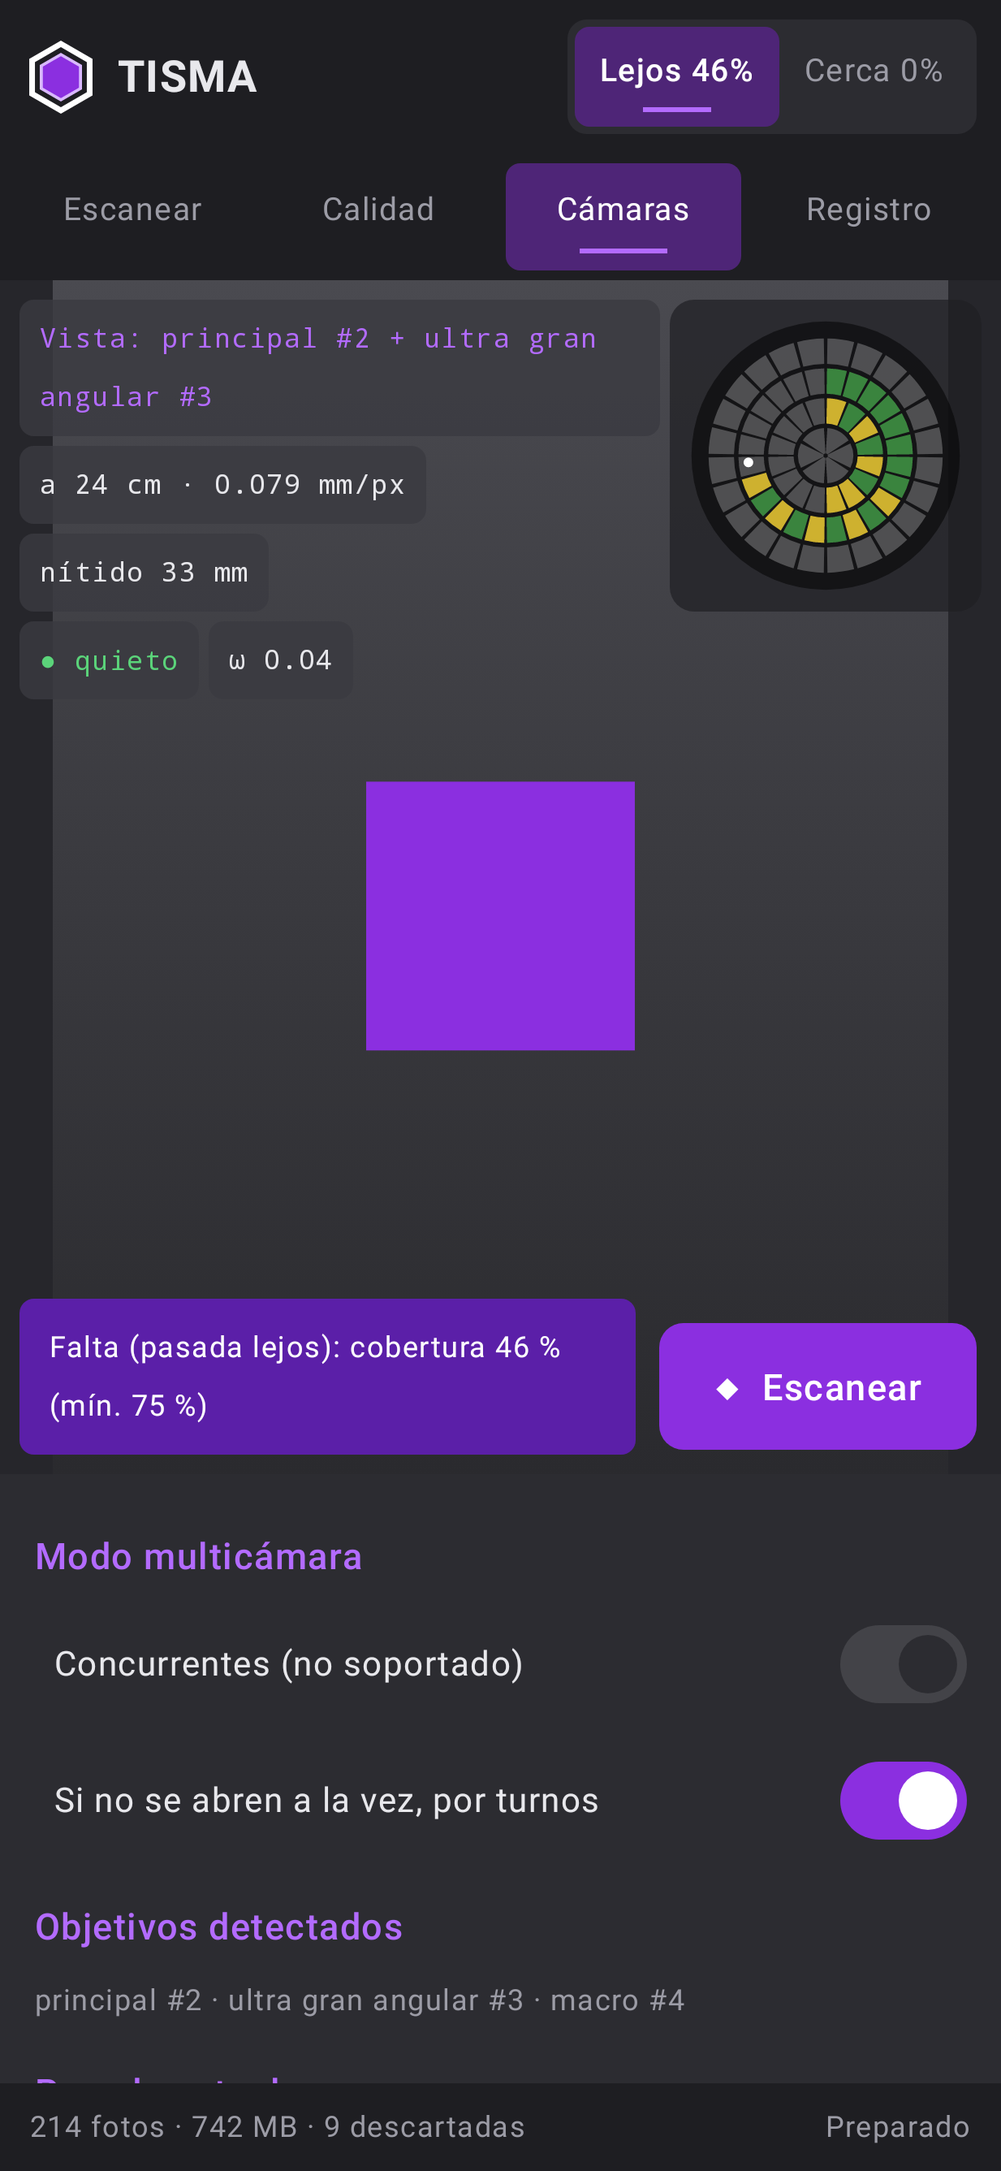
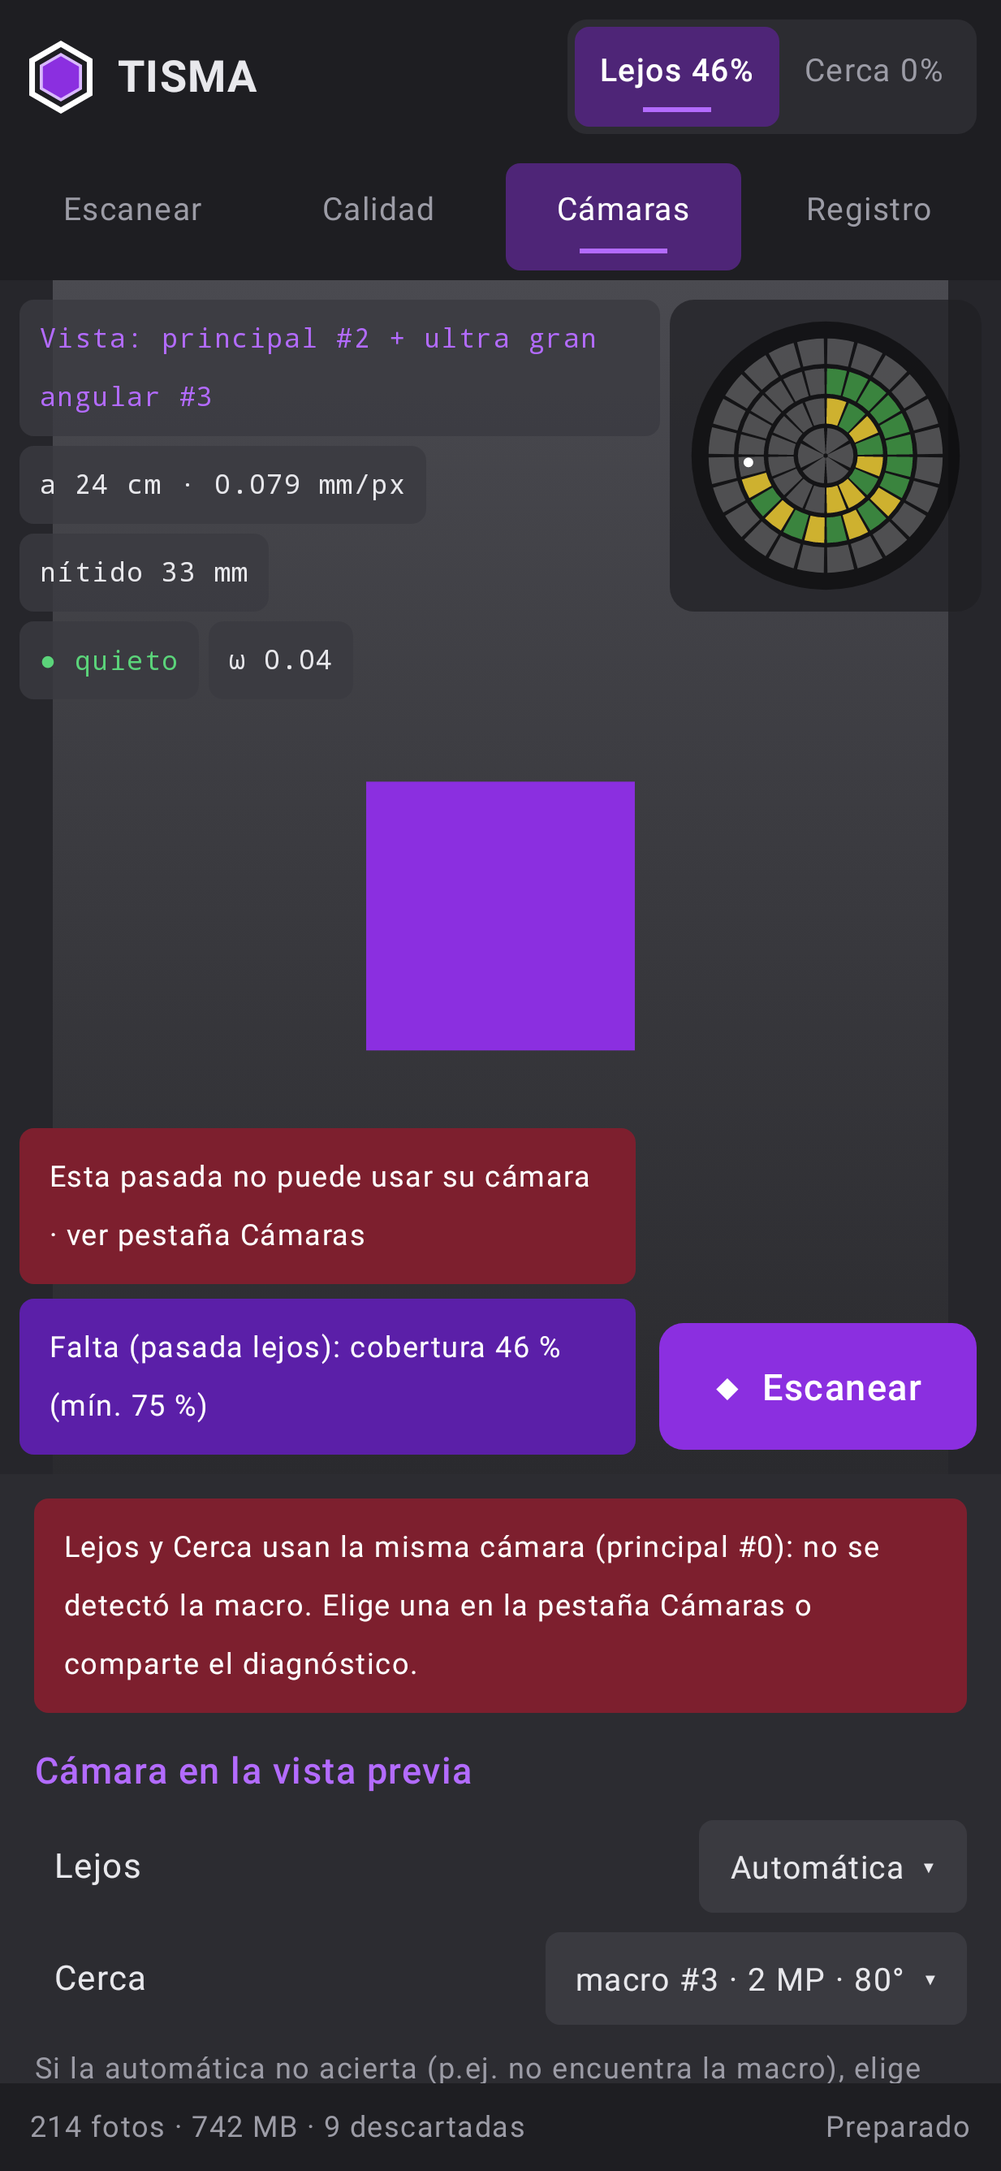
Preview: find hidden cameras, manual per-pass picker, and diagnostics
- Probes camera IDs 0-15: Honor/Huawei and others only list 0 and 1 but let
  the ultrawide/macro open if requested by number
- Roles detected from the real sensor resolution (pixel array), not the
  JPEG resolution, which can be empty for hidden lenses
- Checks which camera is actually in the preview and warns if the phone
  rejects the macro stream or if both passes end up on the same camera
- Falls back to the main camera if a found camera refuses to open
- Cameras tab: manual preview-camera choice per pass and a 'Compartir
  diagnóstico' button that sends everything the phone reports about its cameras

Claude-Session: https://claude.ai/code/session_01QadJfKzbw9ynwc1fqLJ3m8

diff --git a/app/src/main/java/com/tisma/scanner/ui/ScanViewModel.kt b/app/src/main/java/com/tisma/scanner/ui/ScanViewModel.kt
@@ -57,6 +57,12 @@ data class UiState(
     /** Papel detectado de cada objetivo y cómo se combinan en la pasada actual. */
     val rolesText: String = "",
     val rigText: String = "",
+    /** Aviso si la pasada no puede usar la cámara que le toca (p.ej. el móvil oculta la macro). */
+    val rigWarning: String = "",
+    /** Cámaras traseras elegibles a mano para la vista previa de cada pasada: id -> etiqueta. */
+    val cameraChoices: List<Pair<String, String>> = emptyList(),
+    /** Elección manual de la vista previa por pasada (null = automática). */
+    val previewChoice: Map<ScanPass, String?> = emptyMap(),
     val gpsText: String = "GPS: sin fix",
     val posStdM: Double = 0.0,
     val scanning: Boolean = false,
@@ -166,8 +172,9 @@ class ScanViewModel(app: Application) : AndroidViewModel(app), MultiCameraContro
         lenses = inventory.values.map { c ->
             Lens(
                 id = c.id, back = c.facing == CameraMetadata.LENS_FACING_BACK,
-                logical = c.isLogicalMultiCamera, physicalIds = c.physicalIds, isPublic = c.id in public,
-                pixels = c.jpegSizes.firstOrNull()?.let { it.width.toLong() * it.height } ?: 0L,
+                // Las encontradas probando su número también se intentan abrir directamente.
+                logical = c.isLogicalMultiCamera, physicalIds = c.physicalIds, isPublic = c.id in public || c.probed,
+                pixels = c.sensorPixels,
                 hfovDeg = c.hfovDeg,
             )
         }
@@ -178,8 +185,13 @@ class ScanViewModel(app: Application) : AndroidViewModel(app), MultiCameraContro
                 cameras = inventory.values.map { c -> c.label },
                 concurrentSupported = concurrentSets.any { s -> s.size > 1 },
                 rolesText = roles.describe(),
+                cameraChoices = inventory.values
+                    .filter { c -> c.facing == CameraMetadata.LENS_FACING_BACK }
+                    .map { c -> c.id to roleName(c.id) + " · %.0f MP".format(c.sensorPixels / 1e6) + (c.hfovDeg?.let { f -> " · ${f.toInt()}°" } ?: "") },
             )
         }
+        val hidden = inventory.values.filter { it.probed }.map { it.id }
+        if (hidden.isNotEmpty()) log("Cámaras ocultas encontradas por número: ${hidden.joinToString()}")
         log("Objetivos: ${roles.describe()}")
         log("Conjuntos concurrentes: " + concurrentSets.joinToString { s -> s.joinToString("+", "{", "}") })
         loop = viewModelScope.launch(Dispatchers.Default) { insLoop() }
@@ -219,17 +231,64 @@ class ScanViewModel(app: Application) : AndroidViewModel(app), MultiCameraContro
     }
 
     /** Recalcula qué cámaras abre la pasada actual (vista previa + compañera). */
+    private fun roleName(id: String?): String = when (id) {
+        null -> "—"; roles.main -> "principal #$id"; roles.macro -> "macro #$id"
+        roles.ultrawide -> "ultra gran angular #$id"; roles.tele -> "tele #$id"; else -> "cámara #$id"
+    }
+
+    /** Papeles con la elección manual aplicada: Lejos cambia la principal, Cerca la macro. */
+    private fun rolesFor(p: ScanPass): CameraRoles {
+        val choice = _state.value.previewChoice[p] ?: return roles
+        return when (p) {
+            ScanPass.FAR -> roles.copy(main = choice)
+            ScanPass.CLOSE -> roles.copy(macro = choice)
+        }
+    }
+
+    private fun planFor(p: ScanPass) =
+        PassRigPlanner.plan(p, rolesFor(p), lenses, concurrentSets, _state.value.useConcurrent)
+
+    /** Recalcula qué cámaras abre la pasada actual (vista previa + compañera). */
     private fun planCurrentPass(): RigPlan {
-        val plan = PassRigPlanner.plan(activePass, roles, lenses, concurrentSets, _state.value.useConcurrent)
+        val plan = planFor(activePass)
         rigPlan = plan
-        val name = { id: String? -> when (id) {
-            null -> "—"; roles.main -> "principal #$id"; roles.macro -> "macro #$id"
-            roles.ultrawide -> "ultra gran angular #$id"; roles.tele -> "tele #$id"; else -> "#$id"
-        } }
-        val text = "Vista: ${name(plan.previewId)}" +
-            (plan.companionId?.let { " + ${name(it)}" } ?: "") + " — ${plan.mode.label}"
-        _state.update { it.copy(rigText = text) }
+        val text = "Vista: ${roleName(plan.previewId)}" +
+            (plan.companionId?.let { " + ${roleName(it)}" } ?: "") + " — ${plan.mode.label}"
+        val other = planFor(if (activePass == ScanPass.FAR) ScanPass.CLOSE else ScanPass.FAR)
+        val warning = when {
+            plan.previewId == null -> "No se encontró ninguna cámara trasera"
+            plan.previewId == other.previewId ->
+                "Lejos y Cerca usan la misma cámara (${roleName(plan.previewId)}): no se detectó " +
+                    (if (activePass == ScanPass.CLOSE) "la macro" else "otra cámara") +
+                    ". Elige una en la pestaña Cámaras o comparte el diagnóstico."
+            else -> ""
+        }
+        _state.update { it.copy(rigText = text, rigWarning = warning) }
+        if (warning.isNotEmpty()) log(warning)
         return plan
+    }
+
+    /** Elegir a mano qué cámara se ve en una pasada (null = automática). */
+    override fun setPreviewCamera(pass: ScanPass, id: String?) {
+        _state.update { it.copy(previewChoice = it.previewChoice + (pass to id)) }
+        if (pass == activePass && !sequenceRunning) {
+            val plan = planCurrentPass()
+            viewModelScope.launch { openRig(plan.groups) }
+        }
+    }
+
+    override fun diagnostics(): String = buildString {
+        append(CameraInventory.diagnostics(cameraManager, inventory))
+        appendLine("Papeles: ${roles.describe()}")
+        for (p in ScanPass.entries) {
+            val plan = planFor(p)
+            appendLine("${p.label}: vista ${plan.previewId} + ${plan.companionId} · ${plan.mode} · grupos " +
+                plan.groups.joinToString { "${it.deviceId}${it.physicalStreams}${it.previewPhysicalId?.let { v -> "/vista $v" } ?: ""}" } +
+                (if (plan.separate.isNotEmpty()) " · por turnos " + plan.separate.joinToString { it.deviceId } else ""))
+        }
+        appendLine("Flujos abiertos: " + cameras.openedStreams.joinToString { "${it.cameraId}@${it.size.width}x${it.size.height}" })
+        appendLine("Registro:")
+        _state.value.log.forEach { appendLine("  $it") }
     }
 
     /** Abre un conjunto de cámaras; el primer grupo lleva la vista previa. */
@@ -244,6 +303,27 @@ class ScanViewModel(app: Application) : AndroidViewModel(app), MultiCameraContro
             // Una sola Surface por textura: crear una nueva en cada apertura las filtraba.
             val surface = previewSurface ?: Surface(tex).also { previewSurface = it }
             cameras.open(groups, surface, previewSize)
+            if (cameras.openedStreams.isEmpty()) {
+                // Una cámara oculta puede aparecer al probar su número pero negarse a abrir:
+                // volver a la principal para no quedarse sin vista previa.
+                val fallback = runCatching { cameraManager.cameraIdList.firstOrNull { id ->
+                    inventory[id]?.facing == CameraMetadata.LENS_FACING_BACK } }.getOrNull()
+                if (fallback != null && groups.none { it.deviceId == fallback && it.physicalStreams.isEmpty() }) {
+                    log("No se pudo abrir ${groups.joinToString { "#" + it.deviceId }}: se usa la principal #$fallback")
+                    _state.update { it.copy(rigWarning = "El móvil no deja abrir esa cámara; se muestra la principal #$fallback.") }
+                    val g = CameraGroup(fallback, emptyList(), primary = true, concurrent = false)
+                    tex.setDefaultBufferSize(cameras.previewSizeFor(fallback).width, cameras.previewSizeFor(fallback).height)
+                    cameras.open(listOf(g), surface, cameras.previewSizeFor(fallback))
+                }
+            }
+            // ¿Se ve la cámara pedida? (el móvil puede rechazar el flujo físico de la macro).
+            val wanted = first.previewPhysicalId ?: first.deviceId
+            val shown = cameras.previewCameraId
+            if (shown != null && shown != wanted && rigPlan.previewId == wanted) {
+                val msg = "El móvil no deja mostrar ${roleName(wanted)} en la vista previa; se ve ${roleName(shown)}."
+                log(msg)
+                _state.update { it.copy(rigWarning = msg) }
+            }
             _state.update {
                 it.copy(
                     busy = false,

diff --git a/app/src/main/java/com/tisma/scanner/camera/CameraInventory.kt b/app/src/main/java/com/tisma/scanner/camera/CameraInventory.kt
@@ -34,7 +34,13 @@ data class CameraInfo(
     val hyperfocalDiopters: Float?,
     val focusCalibration: Int?,
     val apertures: FloatArray,
+    /** No está en cameraIdList: se encontró probando su número. */
+    val probed: Boolean = false,
 ) {
+    /** Resolución real del sensor (el JPEG puede venir agrupado: 108 MP -> 12 MP). */
+    val sensorPixels: Long get() = pixelArray?.let { it.width.toLong() * it.height }
+        ?: jpegSizes.firstOrNull()?.let { it.width.toLong() * it.height } ?: 0L
+
     val facingName get() = when (facing) {
         CameraMetadata.LENS_FACING_BACK -> "back"
         CameraMetadata.LENS_FACING_FRONT -> "front"
@@ -96,14 +102,37 @@ object CameraInventory {
     /** Lista todas las cámaras: las públicas y las físicas ocultas tras cámaras lógicas. */
     fun enumerate(manager: CameraManager): Map<String, CameraInfo> {
         val out = LinkedHashMap<String, CameraInfo>()
-        for (id in manager.cameraIdList) {
-            val info = describe(manager, id)
-            out[id] = info
-            for (pid in info.physicalIds) {
-                if (pid !in out) runCatching { describe(manager, pid) }.getOrNull()?.let { out[pid] = it }
-            }
+        val listed = runCatching { manager.cameraIdList.toList() }.getOrDefault(emptyList())
+        fun add(id: String, probed: Boolean) {
+            if (id in out) return
+            val info = runCatching { describe(manager, id) }.getOrNull() ?: return
+            out[id] = info.copy(probed = probed)
+            for (pid in info.physicalIds) add(pid, probed = false)
         }
+        for (id in listed) add(id, probed = false)
+        // Muchos fabricantes (Honor/Huawei, Xiaomi…) sólo listan "0" y "1" pero dejan abrir
+        // el resto de objetivos (ultra gran angular, macro) si se piden por su número.
+        for (n in 0..PROBE_MAX_ID) add(n.toString(), probed = true)
         return out
+    }
+
+    /** Hasta qué número de cámara se prueba si existe aunque no esté en la lista. */
+    const val PROBE_MAX_ID = 15
+
+    /** Texto con todo lo que el móvil dice de sus cámaras, para depurar a distancia. */
+    fun diagnostics(manager: CameraManager, cams: Map<String, CameraInfo>): String = buildString {
+        appendLine("Tisma Scanner · diagnóstico de cámaras")
+        appendLine("Dispositivo: ${android.os.Build.MANUFACTURER} ${android.os.Build.MODEL} (SDK ${android.os.Build.VERSION.SDK_INT})")
+        appendLine("Lista oficial: " + runCatching { manager.cameraIdList.joinToString() }.getOrDefault("?"))
+        appendLine("Concurrentes: " + concurrentSets(manager).joinToString { it.joinToString("+", "{", "}") })
+        for (c in cams.values) {
+            appendLine("#${c.id} ${c.facingName}${if (c.probed) " (oculta, encontrada por número)" else ""}" +
+                (if (c.isLogicalMultiCamera) " lógica[${c.physicalIds.joinToString()}]" else "") +
+                " sensor ${c.pixelArray?.let { "${it.width}x${it.height}" } ?: "?"}" +
+                " jpeg ${c.jpegSizes.firstOrNull()?.let { "${it.width}x${it.height}" } ?: "-"}" +
+                " f=${c.focalLengthsMm.joinToString()}mm hfov=${c.hfovDeg?.toInt() ?: "?"}°" +
+                " minFoco=${c.minFocusDiopters ?: "?"}D nivel=${c.hardwareLevel}")
+        }
     }
 
     fun describe(manager: CameraManager, id: String): CameraInfo {

diff --git a/app/src/main/java/com/tisma/scanner/ui/ScanScreen.kt b/app/src/main/java/com/tisma/scanner/ui/ScanScreen.kt
@@ -55,9 +55,9 @@ import kotlin.math.sin
 private enum class Tab(val label: String) { SCAN("Escanear"), QUALITY("Calidad"), CAMERAS("Cámaras"), LOG("Registro") }
 
 @Composable
-fun ScanScreen(vm: ScanViewModel, onShare: (File) -> Unit) {
+fun ScanScreen(vm: ScanViewModel, onShare: (File) -> Unit, onShareText: (String) -> Unit = {}) {
     val s by vm.state.collectAsStateWithLifecycle()
-    ScanContent(s, vm, onShare)
+    ScanContent(s, vm, onShare, onShareText = onShareText)
 }
 
 /**
@@ -70,6 +70,7 @@ fun ScanContent(
     vm: ScanActions,
     onShare: (File) -> Unit,
     initialTab: Int = 0,
+    onShareText: (String) -> Unit = {},
     preview: @Composable () -> Unit = { CameraPreview(vm) },
 ) {
     var tab by remember { mutableStateOf(Tab.entries[initialTab]) }
@@ -85,7 +86,7 @@ fun ScanContent(
                 when (tab) {
                     Tab.SCAN -> ScanSettings(s, vm, onShare)
                     Tab.QUALITY -> QualityTab(s)
-                    Tab.CAMERAS -> CamerasTab(s, vm)
+                    Tab.CAMERAS -> CamerasTab(s, vm, onShareText)
                     Tab.LOG -> LogTab(s)
                 }
             }
@@ -244,6 +245,7 @@ private fun Viewport(s: UiState, vm: ScanActions, onShare: (File) -> Unit, previ
         // Avisos abajo a la izquierda, como los toasts de TISMA.
         // Como mucho 2 avisos para no tapar la vista: primero los problemas, luego qué falta.
         val toasts = buildList {
+            if (s.rigWarning.isNotEmpty()) add(Triple("Esta pasada no puede usar su cámara · ver pestaña Cámaras", true, false))
             if (s.gyroRate > 0.6 && s.scanning) add(Triple("Demasiado rápido: las fotos saldrán movidas", true, false))
             if (s.scanning && s.analyzed > 0 && s.textureRecent < ScanViewModel.LOW_TEXTURE) {
                 add(Triple("Poca textura (%d %%): usa el tapete o spray mate".format((s.textureRecent * 100).toInt()), true, false))
@@ -328,7 +330,25 @@ private fun QualityTab(s: UiState) {
 }
 
 @Composable
-private fun CamerasTab(s: UiState, vm: ScanActions) {
+private fun CamerasTab(s: UiState, vm: ScanActions, onShareText: (String) -> Unit) {
+    if (s.rigWarning.isNotEmpty()) Toast(s.rigWarning, error = true)
+    Section("Cámara en la vista previa")
+    for (p in ScanPass.entries) {
+        SettingRow(if (p == ScanPass.FAR) "Lejos" else "Cerca") {
+            // Pulsar recorre: Automática -> cada cámara trasera -> Automática.
+            val choices = listOf<Pair<String?, String>>(null to "Automática") + s.cameraChoices
+            val current = s.previewChoice[p]
+            val label = choices.firstOrNull { it.first == current }?.second ?: "Automática"
+            ValueField(label) {
+                val i = choices.indexOfFirst { it.first == current }
+                vm.setPreviewCamera(p, choices[(i + 1) % choices.size].first)
+            }
+        }
+    }
+    Hint("Si la automática no acierta (p.ej. no encuentra la macro), elige aquí la cámara.")
+    SecondaryButton("Compartir diagnóstico de cámaras", Modifier.fillMaxWidth().padding(top = 6.dp)) {
+        onShareText(vm.diagnostics())
+    }
     Section("Modo multicámara")
     SettingSwitch(
         if (s.concurrentSupported) "Permitir cámaras concurrentes" else "Concurrentes (no soportado)",

diff --git a/app/src/main/java/com/tisma/scanner/camera/MultiCameraController.kt b/app/src/main/java/com/tisma/scanner/camera/MultiCameraController.kt
@@ -165,6 +165,9 @@ class MultiCameraController(context: Context, private val listener: Listener) {
 
     // Se leen desde el hilo de E/S de cámara (onImage) y se modifican desde el principal.
     private val active = java.util.concurrent.CopyOnWriteArrayList<Active>()
+    /** Cámara que de verdad se ve en la vista previa tras la última apertura. */
+    @Volatile var previewCameraId: String? = null
+        private set
     val openedStreams = java.util.concurrent.CopyOnWriteArrayList<OpenedStream>()
 
     /** Pone el modo de AF sólo si el objetivo lo admite (los de foco fijo sólo admiten OFF). */
@@ -270,6 +273,7 @@ class MultiCameraController(context: Context, private val listener: Listener) {
     }
 
     fun close() {
+        previewCameraId = null
         for (a in active) {
             runCatching { a.session.close() }
             runCatching { a.device.close() }
@@ -354,6 +358,7 @@ class MultiCameraController(context: Context, private val listener: Listener) {
             }
             val session = createSession(device, outputs)
             if (session != null) {
+                if (preview != null) previewCameraId = previewPhys ?: g.deviceId
                 val ch = manager.getCameraCharacteristics(g.deviceId)
                 val caps = ch.get(CameraCharacteristics.REQUEST_AVAILABLE_CAPABILITIES) ?: IntArray(0)
                 val act = Active(

diff --git a/app/src/main/java/com/tisma/scanner/MainActivity.kt b/app/src/main/java/com/tisma/scanner/MainActivity.kt
@@ -59,7 +59,7 @@ class MainActivity : ComponentActivity() {
         if (cameraGranted.value) vm.onLocationPermission(hasLocation())
         setContent {
             TismaTheme {
-                if (cameraGranted.value) ScanScreen(vm, ::share)
+                if (cameraGranted.value) ScanScreen(vm, ::share, ::shareText)
                 else Box(Modifier.fillMaxSize().background(Tisma.Bg).padding(24.dp), contentAlignment = Alignment.Center) {
                     Text("Tisma Scanner necesita permiso de cámara para escanear.", color = Tisma.Text)
                 }
@@ -72,6 +72,14 @@ class MainActivity : ComponentActivity() {
 
     private fun hasLocation() =
         ContextCompat.checkSelfPermission(this, Manifest.permission.ACCESS_FINE_LOCATION) == PackageManager.PERMISSION_GRANTED
+
+    private fun shareText(text: String) {
+        startActivity(Intent.createChooser(Intent(Intent.ACTION_SEND).apply {
+            type = "text/plain"
+            putExtra(Intent.EXTRA_SUBJECT, "Tisma Scanner · diagnóstico de cámaras")
+            putExtra(Intent.EXTRA_TEXT, text)
+        }, "Compartir diagnóstico"))
+    }
 
     private fun share(zip: File) {
         val uri = FileProvider.getUriForFile(this, "$packageName.files", zip)

diff --git a/app/src/test/java/com/tisma/scanner/ui/ScanScreenshotTest.kt b/app/src/test/java/com/tisma/scanner/ui/ScanScreenshotTest.kt
@@ -41,6 +41,8 @@ class ScanScreenshotTest {
         override fun setJpegQuality(q: Int) {}
         override fun setUseConcurrent(v: Boolean) {}
         override fun setRotateCameras(v: Boolean) {}
+        override fun setPreviewCamera(pass: ScanPass, id: String?) {}
+        override fun diagnostics() = ""
     }
 
     /** Escena falsa en lugar de la cámara: mesa gris con una pieza violeta. */
@@ -86,7 +88,12 @@ class ScanScreenshotTest {
         readinessText = "✓ Listo para enviar · detalle cerca 34 %", textureRecent = 0.6,
     ), 1)
 
-    @Test fun camerasTab() = shot("cameras_tab", scanning.copy(scanning = false), 2)
+    @Test fun camerasTab() = shot("cameras_tab", scanning.copy(
+        scanning = false,
+        cameraChoices = listOf("0" to "principal #0 · 108 MP · 72°", "2" to "ultra gran angular #2 · 5 MP · 108°", "3" to "macro #3 · 2 MP · 80°"),
+        previewChoice = mapOf(ScanPass.CLOSE to "3"),
+        rigWarning = "Lejos y Cerca usan la misma cámara (principal #0): no se detectó la macro. Elige una en la pestaña Cámaras o comparte el diagnóstico.",
+    ), 2)
 
     @Test fun idle() = shot("idle", UiState(cameras = scanning.cameras, openedStreams = scanning.openedStreams), 0)
 

diff --git a/app/src/main/java/com/tisma/scanner/ui/ScanActions.kt b/app/src/main/java/com/tisma/scanner/ui/ScanActions.kt
@@ -20,4 +20,8 @@ interface ScanActions {
     fun setJpegQuality(q: Int)
     fun setUseConcurrent(v: Boolean)
     fun setRotateCameras(v: Boolean)
+    /** Cámara que se ve en una pasada (null = elección automática). */
+    fun setPreviewCamera(pass: com.tisma.scanner.camera.ScanPass, id: String?)
+    /** Informe de cámaras para compartir y depurar a distancia. */
+    fun diagnostics(): String
 }
